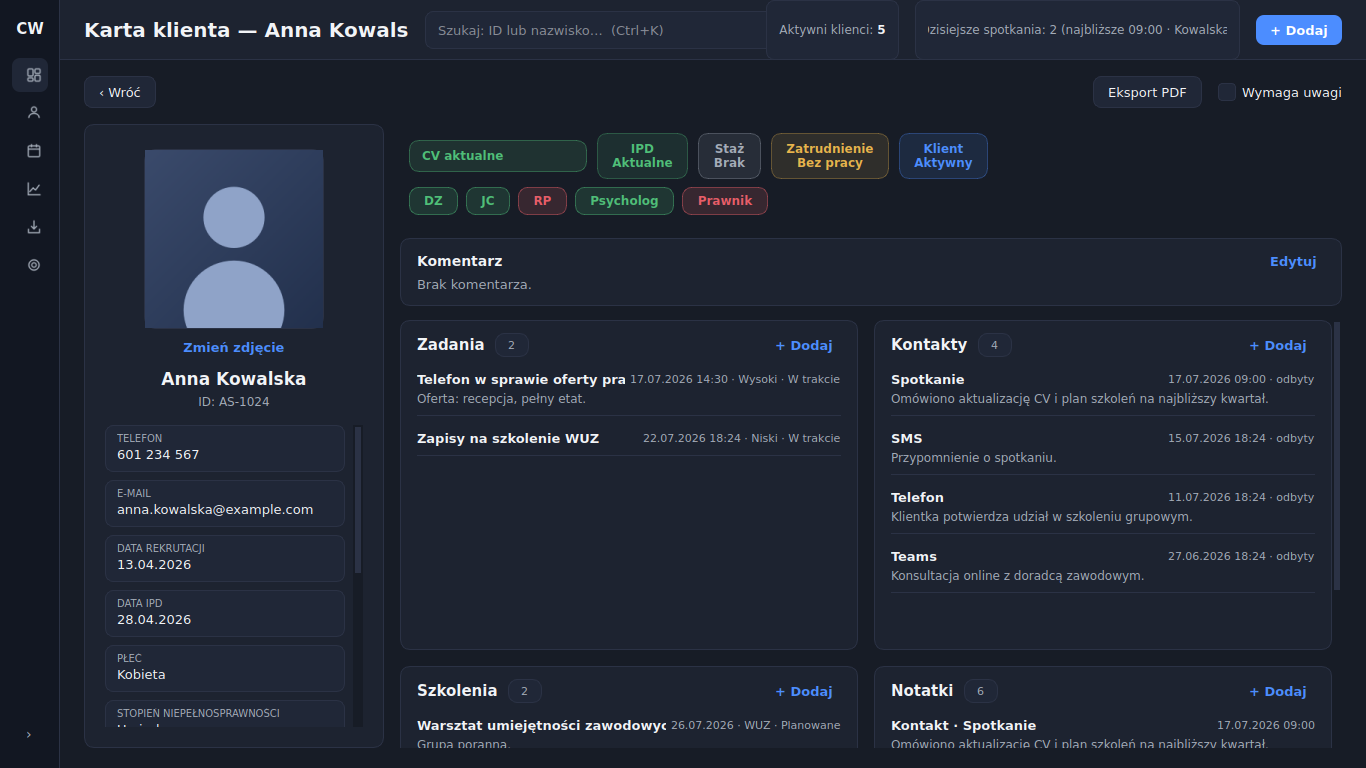
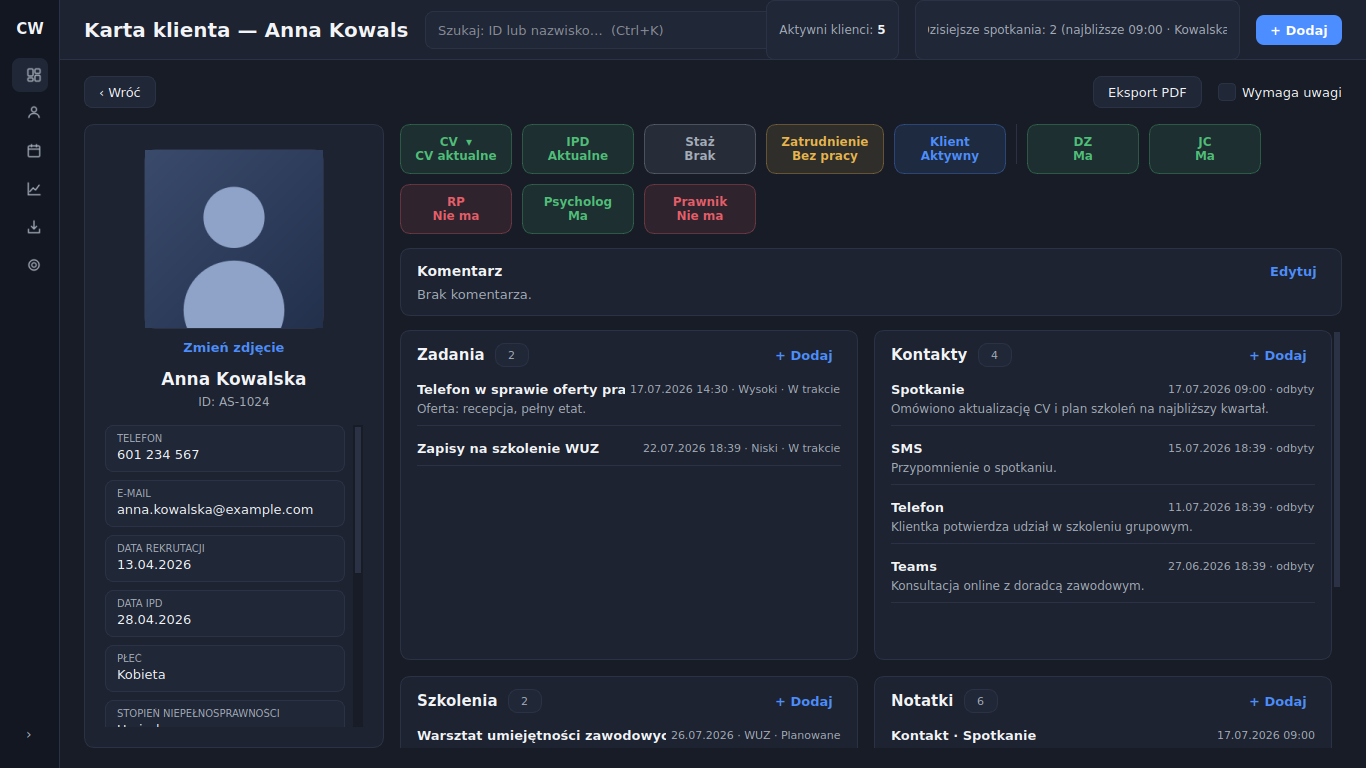
Karta klienta: jednolity rząd statusów w jednej linii (FlowLayout)
- CV jako MenuPill: ten sam kształt/rozmiar co IPD (2 linie + ▾), z rozwijanym menu wyboru
- wszystkie kontrolki (CV/IPD/Staż/Zatrudnienie/Klient + DZ/JC/RP/Psycholog/Prawnik)
  o jednakowej wysokości w jednej linii; FlowLayout zawija je na węższych ekranach
- YesNoFlag 2-liniowy (Ma/Nie ma), spójny z pozostałymi; subtelny separator grup
- na 1920 wszystko w jednej linii, na 1366 zawija bez poziomego scrolla

Claude-Session: https://claude.ai/code/session_0111JaRPMQvjsJitfGePPiND

diff --git a/src/ui/widgets/pills.py b/src/ui/widgets/pills.py
@@ -9,6 +9,21 @@ from PySide6.QtWidgets import QComboBox, QLabel, QPushButton
 from ui.styles.theme import Palette
 
 
+# Wspólne wymiary kontrolek statusu (jednolity kształt w rzędzie karty klienta)
+STATUS_PILL_HEIGHT = 50
+STATUS_PILL_MIN_WIDTH = 112
+
+
+def _pill_qss(color: str) -> str:
+    return (
+        f"QPushButton {{ background: {with_alpha(color, 0.12)}; color: {color};"
+        f"border: 1px solid {with_alpha(color, 0.33)};"
+        "border-radius: 10px; padding: 6px 14px; font-size: 12px; font-weight: 600;"
+        "text-align: center; }"
+        f"QPushButton:hover {{ background: {with_alpha(color, 0.19)}; }}"
+    )
+
+
 def priority_color(p: Palette, priority: str) -> str:
     return {"wysoki": p.red, "sredni": p.yellow, "niski": p.green}.get(priority, p.text_muted)
 
@@ -62,6 +77,8 @@ class QuickStatusPill(QPushButton):
         self._on_change = on_change
         self.setCursor(Qt.CursorShape.PointingHandCursor)
         self.setToolTip("Kliknij, aby zmienić status")
+        self.setFixedHeight(STATUS_PILL_HEIGHT)
+        self.setMinimumWidth(STATUS_PILL_MIN_WIDTH)
         self.clicked.connect(self._cycle)
         self._refresh()
 
@@ -75,17 +92,15 @@ class QuickStatusPill(QPushButton):
         color = self._color_for(self._value)
         label = self._labels.get(self._value, self._value)
         self.setText(f"{self._title}\n{label}")
-        self.setStyleSheet(
-            f"QPushButton {{ background: {with_alpha(color, 0.12)}; color: {color};"
-            f"border: 1px solid {with_alpha(color, 0.33)};"
-            "border-radius: 10px; padding: 8px 14px; font-size: 12px; font-weight: 600;"
-            "text-align: center; }"
-            f"QPushButton:hover {{ background: {with_alpha(color, 0.19)}; }}"
-        )
+        self.setStyleSheet(_pill_qss(color))
 
 
-class StatusDropdown(QComboBox):
-    """Status z listą wyboru (np. CV: brak / do poprawy / aktualne), kolorowany wg wartości."""
+class MenuPill(QPushButton):
+    """Status wielostanowy w kształcie pill (jak QuickStatusPill), z rozwijanym menu wyboru.
+
+    Wygląda identycznie jak pozostałe statusy (2 linie, ta sama wysokość), a klik
+    otwiera listę do wyboru — dla CV (brak / do poprawy / aktualne).
+    """
 
     def __init__(
         self,
@@ -100,37 +115,40 @@ class StatusDropdown(QComboBox):
         super().__init__()
         self._title = title
         self._values = values
+        self._labels = labels
+        self._value = current
         self._colors = colors
         self._palette = palette
         self._on_change = on_change
-        for v in values:
-            self.addItem(labels.get(v, v), v)
-        idx = self.findData(current)
-        if idx >= 0:
-            self.setCurrentIndex(idx)
         self.setCursor(Qt.CursorShape.PointingHandCursor)
-        self.setToolTip(f"{title} — wybierz status")
-        self.currentIndexChanged.connect(self._changed)
-        self._restyle()
+        self.setToolTip(f"{title} — kliknij, aby wybrać")
+        self.setFixedHeight(STATUS_PILL_HEIGHT)
+        self.setMinimumWidth(STATUS_PILL_MIN_WIDTH)
+        self.clicked.connect(self._open_menu)
+        self._refresh()
 
-    def _changed(self) -> None:
-        self._restyle()
-        self._on_change(self.currentData())
+    def _open_menu(self) -> None:
+        from PySide6.QtWidgets import QMenu
 
-    def _restyle(self) -> None:
-        color = self._colors.get(self.currentData(), self._palette.text_muted)
-        self.setStyleSheet(
-            f"QComboBox {{ background: {with_alpha(color, 0.14)}; color: {color};"
-            f"border: 1px solid {with_alpha(color, 0.4)}; border-radius: 10px;"
-            "padding: 7px 12px; font-size: 12px; font-weight: 600; min-width: 128px; }"
-            "QComboBox::drop-down { border: none; width: 22px; }"
-            f"QComboBox QAbstractItemView {{ background: {self._palette.card};"
-            f"color: {self._palette.text}; selection-background-color: {self._palette.selection}; }}"
-        )
+        menu = QMenu(self)
+        for v in self._values:
+            menu.addAction(self._labels.get(v, v), lambda val=v: self._select(val))
+        menu.exec(self.mapToGlobal(self.rect().bottomLeft()))
+
+    def _select(self, value: str) -> None:
+        self._value = value
+        self._on_change(value)
+        self._refresh()
+
+    def _refresh(self) -> None:
+        color = self._colors.get(self._value, self._palette.text_muted)
+        label = self._labels.get(self._value, self._value)
+        self.setText(f"{self._title}  ▾\n{label}")
+        self.setStyleSheet(_pill_qss(color))
 
 
 class YesNoFlag(QPushButton):
-    """Dwustanowy przełącznik ma/nie ma — zielony (ma) / czerwony (nie ma)."""
+    """Dwustanowy przełącznik ma/nie ma — 2 linie, zielony (ma) / czerwony (nie ma)."""
 
     def __init__(self, title: str, has: bool, on_toggle: Callable[[bool], None], palette: Palette) -> None:
         super().__init__()
@@ -140,6 +158,8 @@ class YesNoFlag(QPushButton):
         self._on_toggle = on_toggle
         self.setCursor(Qt.CursorShape.PointingHandCursor)
         self.setToolTip(f"{title}: kliknij, aby przełączyć „ma / nie ma”")
+        self.setFixedHeight(STATUS_PILL_HEIGHT)
+        self.setMinimumWidth(STATUS_PILL_MIN_WIDTH)
         self.clicked.connect(self._flip)
         self._refresh()
 
@@ -150,10 +170,5 @@ class YesNoFlag(QPushButton):
 
     def _refresh(self) -> None:
         color = self._palette.green if self._has else self._palette.red
-        self.setText(self._title)
-        self.setStyleSheet(
-            f"QPushButton {{ background: {with_alpha(color, 0.16)}; color: {color};"
-            f"border: 1px solid {with_alpha(color, 0.45)}; border-radius: 9px;"
-            "padding: 6px 14px; font-size: 12px; font-weight: 700; }"
-            f"QPushButton:hover {{ background: {with_alpha(color, 0.26)}; }}"
-        )
+        self.setText(f"{self._title}\n{'Ma' if self._has else 'Nie ma'}")
+        self.setStyleSheet(_pill_qss(color))

diff --git a/src/ui/pages/client_card_page.py b/src/ui/pages/client_card_page.py
@@ -38,11 +38,13 @@ from services.store import DataStore
 from ui.dialogs.entry_dialogs import DIALOGS
 from ui.dialogs.module_view import ModuleViewDialog
 from ui.styles.theme import Palette
-from ui.widgets.pills import QuickStatusPill, StatusDropdown, YesNoFlag
+from ui.widgets.flow_layout import FlowLayout
+from ui.widgets.pills import MenuPill, QuickStatusPill, YesNoFlag
 
 LEFT_COLUMN_WIDTH = 300
 PHOTO_SIZE = 180
 MODULE_HEIGHT = 330
+STATUS_DIVIDER_HEIGHT = 40
 
 
 def _fmt_date(value) -> str:
@@ -146,17 +148,9 @@ class ClientCardPage(QWidget):
         right = QVBoxLayout()
         right.setSpacing(14)
 
-        # rząd statusów: linia główna (CV/IPD/Staż/Zatrudnienie/Klient) + linia toggle (DZ/JC/RP/Psycholog/Prawnik)
-        self._status_box = QVBoxLayout()
-        self._status_box.setSpacing(8)
-        self._status_main = QHBoxLayout()
-        self._status_main.setSpacing(10)
-        self._status_flags = QHBoxLayout()
-        self._status_flags.setSpacing(8)
-        self._status_box.addLayout(self._status_main)
-        self._status_box.addLayout(self._status_flags)
+        # rząd statusów: wszystkie kontrolki w jednej linii (zawijanej gdy brak miejsca)
         status_wrap = QWidget()
-        status_wrap.setLayout(self._status_box)
+        self._status_flow = FlowLayout(status_wrap, margin=0, spacing=10)
         right.addWidget(status_wrap)
 
         # panel Komentarz (osobne, obramowane pole — treść od razu widoczna)
@@ -287,20 +281,19 @@ class ClientCardPage(QWidget):
         assert client is not None
         p = self._palette
 
-        _clear_layout(self._status_main)
-        _clear_layout(self._status_flags)
+        _clear_layout(self._status_flow)
 
         def save() -> None:
             self._store.update_client(client)
             self._on_data_changed()
 
-        # CV — rozwijane pole z trzema stanami (brak / do poprawy / aktualne)
+        # CV — pill z rozwijanym menu (3 stany), identyczny kształt jak pozostałe statusy
         def cv_changed(v: str) -> None:
             client.cv_status = v
             save()
 
-        self._status_main.addWidget(
-            StatusDropdown(
+        self._status_flow.addWidget(
+            MenuPill(
                 "CV", CV_STATUSES, CV_STATUS_LABELS, normalize_cv_status(client.cv_status),
                 {"brak": p.red, "do_poprawy": p.yellow, "aktualne": p.green},
                 cv_changed, p,
@@ -315,7 +308,7 @@ class ClientCardPage(QWidget):
                 setattr(client, attr, v)
                 save()
 
-            self._status_main.addWidget(
+            self._status_flow.addWidget(
                 QuickStatusPill(title, values, labels, current, color_for, on_change)
             )
 
@@ -328,7 +321,12 @@ class ClientCardPage(QWidget):
                  {"bez_pracy": p.yellow, "zatrudniony": p.green}, "employment_status")
         add_pill("Klient", ["aktywny", "zamkniety"], CLIENT_STATUS_LABELS, client.client_status,
                  {"aktywny": p.accent, "zamkniety": p.text_muted}, "client_status")
-        self._status_main.addStretch(1)
+
+        # subtelny separator między statusami procesu a cechami tak/nie
+        divider = QFrame()
+        divider.setFixedSize(1, STATUS_DIVIDER_HEIGHT)
+        divider.setStyleSheet(f"background: {p.line}; border: none;")
+        self._status_flow.addWidget(divider)
 
         # toggle zielony/czerwony: DZ / JC / RP / Psycholog / Prawnik (ma / nie ma)
         def add_flag(title: str, attr: str) -> None:
@@ -337,12 +335,11 @@ class ClientCardPage(QWidget):
                 save()
 
             has = str(getattr(client, attr)).strip().lower() in ("tak", "1", "true", "x", "jest")
-            self._status_flags.addWidget(YesNoFlag(title, has, on_toggle, p))
+            self._status_flow.addWidget(YesNoFlag(title, has, on_toggle, p))
 
         for title, attr in (("DZ", "dz"), ("JC", "jc"), ("RP", "rp"),
                             ("Psycholog", "psychologist"), ("Prawnik", "lawyer")):
             add_flag(title, attr)
-        self._status_flags.addStretch(1)
 
     # ------------------------------------------------------------------
     def _build_modules(self) -> None:

diff --git a/src/ui/widgets/flow_layout.py b/src/ui/widgets/flow_layout.py
@@ -1,0 +1,73 @@
+"""FlowLayout — układ przepływowy: elementy w jednej linii, zawijane gdy brak miejsca."""
+from __future__ import annotations
+
+from PySide6.QtCore import QPoint, QRect, QSize, Qt
+from PySide6.QtWidgets import QLayout, QLayoutItem, QSizePolicy
+
+
+class FlowLayout(QLayout):
+    def __init__(self, parent=None, margin: int = 0, spacing: int = 8) -> None:
+        super().__init__(parent)
+        if parent is not None:
+            self.setContentsMargins(margin, margin, margin, margin)
+        self.setSpacing(spacing)
+        self._items: list[QLayoutItem] = []
+
+    def __del__(self) -> None:  # pragma: no cover
+        while self._items:
+            self._items.pop()
+
+    def addItem(self, item: QLayoutItem) -> None:
+        self._items.append(item)
+
+    def count(self) -> int:
+        return len(self._items)
+
+    def itemAt(self, index: int):
+        return self._items[index] if 0 <= index < len(self._items) else None
+
+    def takeAt(self, index: int):
+        return self._items.pop(index) if 0 <= index < len(self._items) else None
+
+    def expandingDirections(self):
+        return Qt.Orientation(0)
+
+    def hasHeightForWidth(self) -> bool:
+        return True
+
+    def heightForWidth(self, width: int) -> int:
+        return self._do_layout(QRect(0, 0, width, 0), test_only=True)
+
+    def setGeometry(self, rect: QRect) -> None:
+        super().setGeometry(rect)
+        self._do_layout(rect, test_only=False)
+
+    def sizeHint(self) -> QSize:
+        return self.minimumSize()
+
+    def minimumSize(self) -> QSize:
+        size = QSize()
+        for item in self._items:
+            size = size.expandedTo(item.minimumSize())
+        margins = self.contentsMargins()
+        size += QSize(margins.left() + margins.right(), margins.top() + margins.bottom())
+        return size
+
+    def _do_layout(self, rect: QRect, test_only: bool) -> int:
+        x = rect.x()
+        y = rect.y()
+        line_height = 0
+        spacing = self.spacing()
+        for item in self._items:
+            hint = item.sizeHint()
+            next_x = x + hint.width() + spacing
+            if next_x - spacing > rect.right() and line_height > 0:
+                x = rect.x()
+                y = y + line_height + spacing
+                next_x = x + hint.width() + spacing
+                line_height = 0
+            if not test_only:
+                item.setGeometry(QRect(QPoint(x, y), hint))
+            x = next_x
+            line_height = max(line_height, hint.height())
+        return y + line_height - rect.y()
